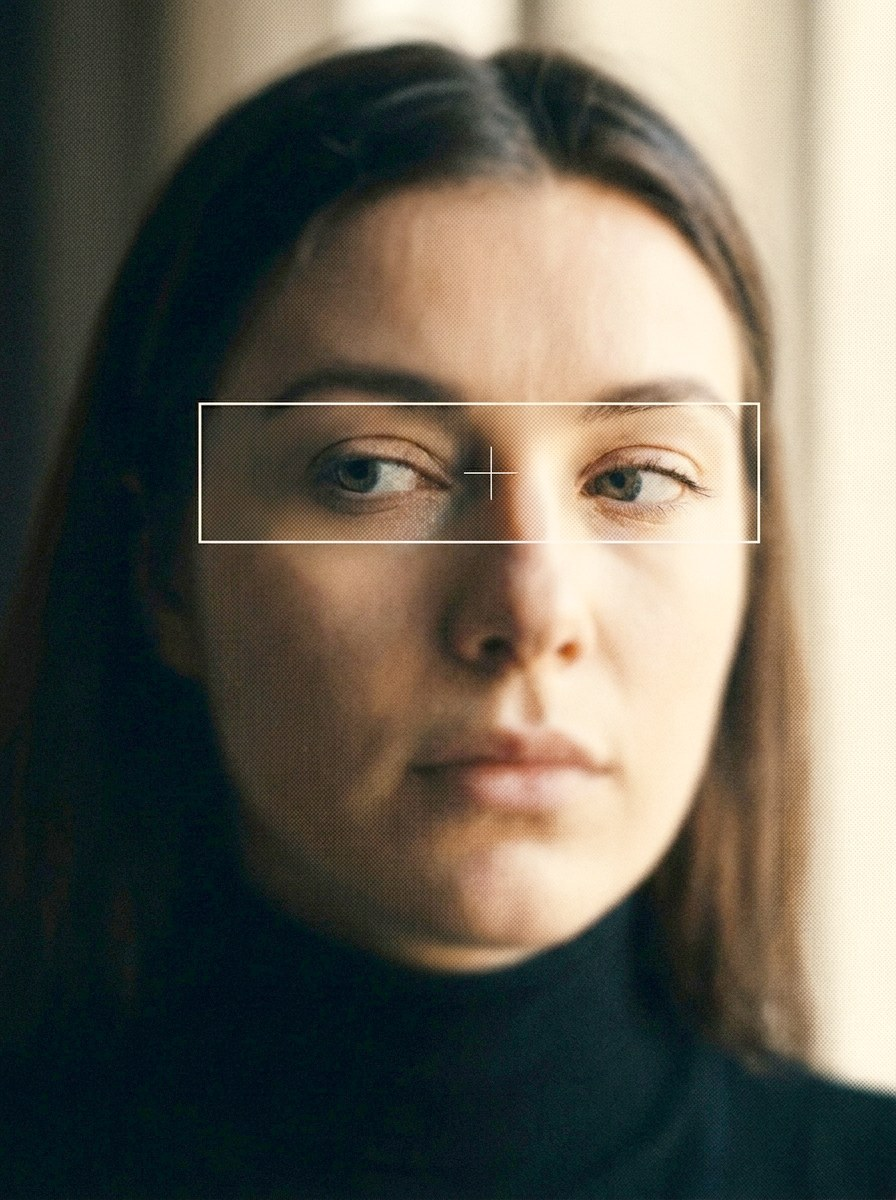
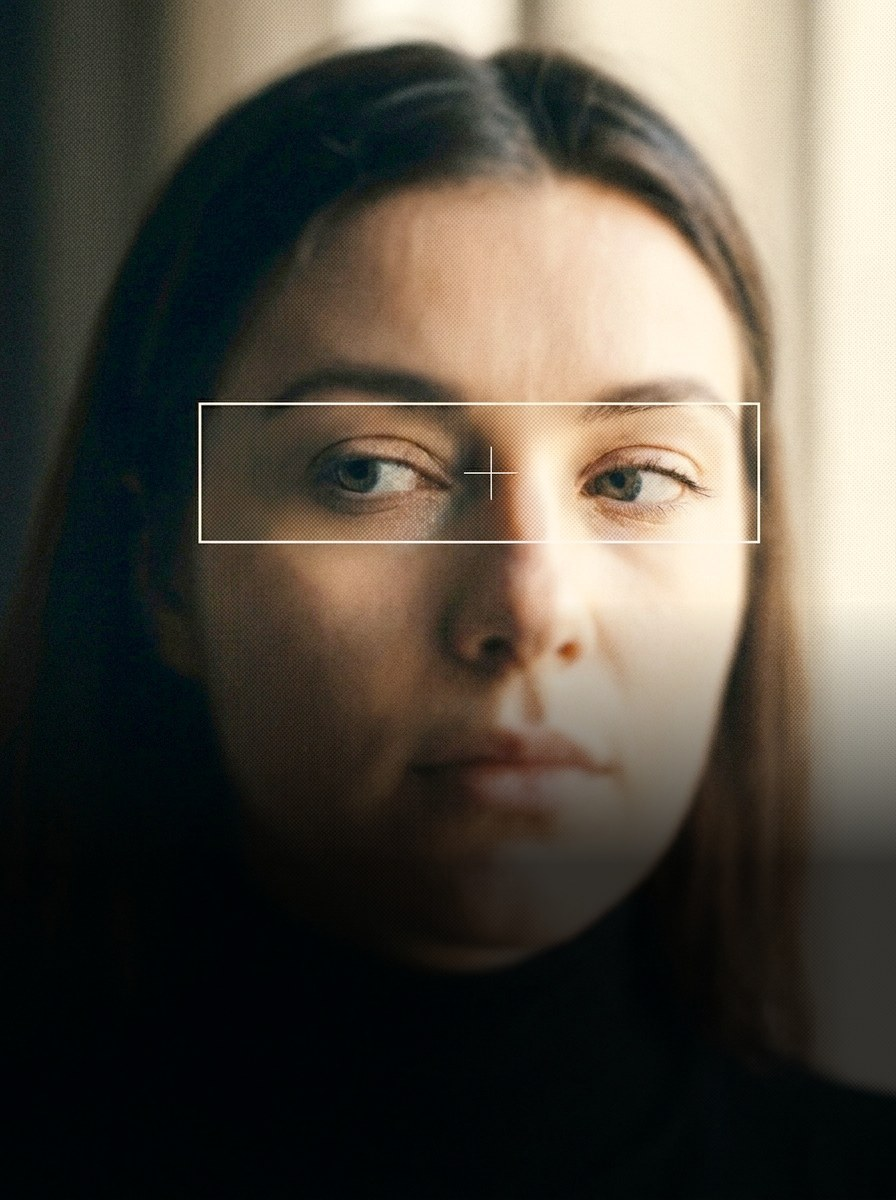
Calmer dither effect and copy matched to source text
- dither-hover.js: allow parameter overrides; page uses slower, subtler shimmer and softer cursor trail
- Copy now identical to the brief (button brackets, Trusted by line, NO-line, hero order, line breaks)
- Removed numbering and footer links not in the copy
- Darkened lower part of mobile hero for headline legibility

Changed region(s): [[0.0, 0.5242, 1.0, 1.0], [0.0, 0.7092, 0.1875, 0.8325], [0.0, 0.8633, 0.0312, 0.8942]]

diff --git a/index.html b/index.html
@@ -143,12 +143,12 @@ a { color: inherit; text-decoration: none; }
   z-index: 2;
   left: var(--g);
   right: var(--g);
-  bottom: calc(var(--t-h1) * 0.24);
+  bottom: var(--s3);
   pointer-events: none;
 }
 .hero__caption {
   max-width: 17ch;
-  margin-bottom: var(--s3);
+  margin-top: var(--s2);
   font-size: clamp(17px, 1.5vw, 26px);
   font-weight: 300;
   line-height: 1.15;
@@ -180,7 +180,6 @@ a { color: inherit; text-decoration: none; }
 .pain__list { border-top: var(--line); }
 .pain__item {
   display: grid;
-  grid-template-columns: 48px 1fr;
   gap: var(--s2);
   align-items: baseline;
   padding: var(--s2) 0;
@@ -189,7 +188,6 @@ a { color: inherit; text-decoration: none; }
   font-weight: 300;
   line-height: 1.15;
 }
-.pain__num { font-size: var(--t-label); font-weight: 500; letter-spacing: 0.06em; }
 .pain__answer {
   margin-top: var(--s4);
   max-width: 32ch;
@@ -202,11 +200,13 @@ a { color: inherit; text-decoration: none; }
 
 /* ============ Trusted by ============ */
 .trust { background: var(--blue); color: var(--cream); padding-top: var(--s3); padding-bottom: var(--s3); }
-.trust__list { display: grid; grid-template-columns: 1fr 1fr; margin-top: var(--s3); }
-.trust__list li {
-  padding: var(--s2) var(--s2) var(--s2) 0;
+.trust__line {
+  margin-top: var(--s3);
+  padding-top: var(--s2);
   border-top: var(--line-cream);
   font-size: clamp(26px, 2.6vw, 46px);
+  line-height: 1.1;
+  word-spacing: 0.15em;
 }
 
 /* ============ Services ============ */
@@ -235,9 +235,9 @@ a { color: inherit; text-decoration: none; }
 .gets__title { font-size: var(--t-h2); max-width: 8ch; }
 .gets__grid { display: grid; margin-top: var(--s4); border-top: var(--line); }
 .gets__item { padding: var(--s3) 0; border-bottom: var(--line); }
-.gets__item h3 { font-size: clamp(30px, 2.6vw, 46px); line-height: 0.95; margin: var(--s2) 0 var(--s2); }
+.gets__item h3 { font-size: clamp(30px, 2.6vw, 46px); line-height: 0.95; margin: 0 0 var(--s2); }
 .gets__item p { max-width: 38ch; }
-.gets__no { display: grid; gap: var(--s1); margin-top: var(--s4); }
+.gets__no { margin-top: var(--s4); padding-top: var(--s2); border-top: var(--line); text-align: center; }
 
 /* ============ Footer ============ */
 .footer { background: var(--blue); color: var(--cream); padding-top: var(--s5); padding-bottom: var(--s2); }
@@ -291,8 +291,6 @@ a { color: inherit; text-decoration: none; }
   .pain__body { border-left: var(--line); padding-left: var(--g); }
   .pain__cta { max-width: 75%; }
 
-  .trust__list { grid-template-columns: repeat(4, 1fr); }
-  .trust__list li + li { padding-left: var(--g); border-left: var(--line-cream); }
 
   .service { grid-template-columns: 1fr 1fr; min-height: 75vh; min-height: 75svh; }
   .service__media { margin: var(--g) var(--g) var(--g) 0; height: auto; max-height: none; min-height: 60svh; }
@@ -308,8 +306,6 @@ a { color: inherit; text-decoration: none; }
   .gets__item p { margin-top: auto; }
   .gets__item h3 { margin-bottom: var(--s3); }
   .gets__item--fill { background: var(--blue); color: var(--cream); }
-  .gets__no { grid-template-columns: repeat(4, 1fr); gap: 0; margin-top: var(--s3); }
-  .gets__no li:first-child { grid-column: 2; }
 
   .footer__grid { grid-template-columns: 1fr 1fr; align-items: center; }
   .footer__mark { justify-self: center; }
@@ -319,7 +315,8 @@ a { color: inherit; text-decoration: none; }
   .header__nav { grid-column: 2 / 4; justify-self: center; }
 }
 @media (max-width: 899px) {
-  .header .btn__long { display: none; }
+  .header .btn { padding: 0 var(--s1); }
+  .header__logo img { height: 32px; }
 }
 </style>
 </head>
@@ -336,7 +333,7 @@ a { color: inherit; text-decoration: none; }
       <li><a class="link" href="#clients">Clients</a></li>
     </ul>
   </nav>
-  <a class="btn" href="#audit"><span><span class="btn__long">Book a free </span>brand audit</span><span class="btn__arrow" aria-hidden="true">→</span></a>
+  <a class="btn" href="#audit">[ Book a free brand audit → ]</a>
 </header>
 
 <main id="top">
@@ -350,17 +347,17 @@ a { color: inherit; text-decoration: none; }
       </picture>
     </div>
     <div class="hero__text">
-      <p class="hero__caption" data-reveal data-d="2">We are here to make your brand the obvious choice on the shelf.</p>
       <h1 class="hero__title display" id="hero-title" data-reveal data-d="1">Integrated Brand<br>Growth Agency</h1>
+      <p class="hero__caption" data-reveal data-d="2">We are here to make your brand the obvious choice on the shelf.</p>
     </div>
   </section>
 
   <!-- Intro -->
   <section class="intro wrap" aria-label="About Bruit Brothers">
-    <p class="intro__lead" data-reveal>At Bruit Brothers, we help FMCG brands become impossible to ignore. Even the highly regulated ones.</p>
+    <p class="intro__lead" data-reveal>At Bruit Brothers, we help FMCG brands become impossible to ignore.<br>Even the highly regulated ones.</p>
     <div class="intro__cols">
       <div data-reveal>
-        <p class="label">Strategy, Creative, and Digital Advertising for Food &amp; Beverage, Alcohol, Tobacco, and OTC Medicines</p>
+        <p class="label">Strategy, Creative, and Digital Advertising<br>for<br>Food &amp; Beverage, Alcohol, Tobacco, and OTC Medicines</p>
       </div>
       <div data-reveal data-d="1">
         <p class="label">8 years in, we absolutely know what grows, what gets bought, what brings money, and what will never work.</p>
@@ -376,15 +373,15 @@ a { color: inherit; text-decoration: none; }
       <div class="pain__body">
         <p class="label pain__intro" data-reveal>However, you’re probably still facing common challenges:</p>
         <ul class="pain__list">
-          <li class="pain__item" data-reveal><span class="pain__num">01</span><span>Your products are great but somehow still aren’t in demand.</span></li>
-          <li class="pain__item" data-reveal><span class="pain__num">02</span><span>People keep choosing competitors that aren’t that good.</span></li>
-          <li class="pain__item" data-reveal><span class="pain__num">03</span><span>The moment you stop advertising, interest in your brand disappears.</span></li>
-          <li class="pain__item" data-reveal><span class="pain__num">04</span><span>Every new media campaign feels like another blind guess.</span></li>
+          <li class="pain__item" data-reveal><span>Your products are great but somehow still aren’t in demand.</span></li>
+          <li class="pain__item" data-reveal><span>People keep choosing competitors that aren’t that good.</span></li>
+          <li class="pain__item" data-reveal><span>The moment you stop advertising, interest in your brand disappears.</span></li>
+          <li class="pain__item" data-reveal><span>Every new media campaign feels like another blind guess.</span></li>
         </ul>
         <p class="pain__answer" data-reveal>We’re ready to identify what's holding your brand back and deliver what's missing to make it people's first choice.</p>
         <div class="pain__cta" data-reveal>
           <p class="label">Get a 20-min expert audit to reveal what's wrong and what to do next.</p>
-          <a class="btn btn--block" href="#audit">Book a free brand audit <span class="btn__arrow" aria-hidden="true">→</span></a>
+          <a class="btn btn--block" href="#audit">[ Book a free brand audit → ]</a>
         </div>
       </div>
     </div>
@@ -393,12 +390,7 @@ a { color: inherit; text-decoration: none; }
   <!-- Trusted by -->
   <section class="trust wrap" id="clients" aria-labelledby="trust-title">
     <h2 class="label" id="trust-title">Trusted by</h2>
-    <ul class="trust__list">
-      <li class="display" data-reveal>Swedish Smokeless</li>
-      <li class="display" data-reveal data-d="1">Swedish Smokeless</li>
-      <li class="display" data-reveal data-d="2">Swedish Smokeless</li>
-      <li class="display" data-reveal data-d="3">Swedish Smokeless</li>
-    </ul>
+    <p class="trust__line display" data-reveal>Swedish Smokeless / Swedish Smokeless / Swedish Smokeless / Swedish Smokeless</p>
   </section>
 
   <!-- Services -->
@@ -411,7 +403,7 @@ a { color: inherit; text-decoration: none; }
       </figure>
       <div class="service__body">
         <div>
-          <p class="label">01 / 05</p>
+          <p class="label">01</p>
           <h3 class="service__title display" id="s1" data-reveal>Brand Strategy</h3>
         </div>
         <div class="service__cols">
@@ -443,7 +435,7 @@ a { color: inherit; text-decoration: none; }
       </figure>
       <div class="service__body">
         <div>
-          <p class="label">02 / 05</p>
+          <p class="label">02</p>
           <h3 class="service__title display" id="s2" data-reveal>Campaign Development</h3>
         </div>
         <div class="service__cols">
@@ -471,7 +463,7 @@ a { color: inherit; text-decoration: none; }
       </figure>
       <div class="service__body">
         <div>
-          <p class="label">03 / 05</p>
+          <p class="label">03</p>
           <h3 class="service__title display" id="s3" data-reveal>Media Activation</h3>
         </div>
         <div class="service__cols">
@@ -501,7 +493,7 @@ a { color: inherit; text-decoration: none; }
       </figure>
       <div class="service__body">
         <div>
-          <p class="label">04 / 05</p>
+          <p class="label">04</p>
           <h3 class="service__title display" id="s4" data-reveal>Brand Measurement</h3>
         </div>
         <div class="service__cols">
@@ -530,7 +522,7 @@ a { color: inherit; text-decoration: none; }
       </figure>
       <div class="service__body">
         <div>
-          <p class="label">05 / 05</p>
+          <p class="label">05</p>
           <h3 class="service__title display" id="s5" data-reveal>Visual Identity</h3>
         </div>
         <div class="service__cols">
@@ -563,32 +555,24 @@ a { color: inherit; text-decoration: none; }
       <h2 class="gets__title display" id="gets-title" data-reveal>What you always get</h2>
       <div class="gets__grid">
         <article class="gets__item gets__item--fill" data-reveal>
-          <span class="label">01</span>
           <h3 class="display">High-value channels only.</h3>
           <p>Valuable attention starts beyond the obvious placements, so we’ll never put you on oversaturated Meta Ads or other default options.</p>
         </article>
         <article class="gets__item" data-reveal data-d="1">
-          <span class="label">02</span>
           <h3 class="display">Regulated industries expertise.</h3>
           <p>We get your campaign live without the usual drama, covering category restrictions, age assurance, platform policies, and creative compliance.</p>
         </article>
         <article class="gets__item" data-reveal>
-          <span class="label">03</span>
           <h3 class="display">Total clarity.</h3>
           <p>You always know what's going on, what comes next, and why it matters, so nothing ever feels like a black box.</p>
         </article>
         <article class="gets__item" data-reveal data-d="1">
-          <span class="label">04</span>
           <h3 class="display">Zero guesswork.</h3>
           <p>Every decision is grounded in proven consumer psychology, behavioral patterns, and purchase motivations.</p>
         </article>
       </div>
     </div>
-    <ul class="gets__no label" data-reveal>
-      <li>No endless briefings</li>
-      <li>No useless documents</li>
-      <li>No unexpected delays</li>
-    </ul>
+    <p class="gets__no label" data-reveal>NO ENDLESS BRIEFINGS&emsp;&emsp;NO USELESS DOCUMENTS&emsp;&emsp;NO UNEXPECTED DELAYS</p>
   </section>
 </main>
 
@@ -597,18 +581,12 @@ a { color: inherit; text-decoration: none; }
     <div class="footer__cta">
       <h2 class="footer__title display" data-reveal>They are ready to listen. Let’s give them something worth hearing.</h2>
       <!-- TODO: replace with the real booking link (Calendly, form, etc.) -->
-      <a class="btn btn--cream btn--block" href="mailto:hello@bruitbrothers.com?subject=Free%20brand%20audit" data-reveal data-d="1">Book a free brand audit <span class="btn__arrow" aria-hidden="true">→</span></a>
+      <a class="btn btn--cream btn--block" href="mailto:hello@bruitbrothers.com?subject=Free%20brand%20audit" data-reveal data-d="1">[ Book a free brand audit → ]</a>
     </div>
     <div class="footer__mark" role="img" aria-label="The two Bruit Brothers"></div>
   </div>
   <div class="footer__bottom label">
     <span>© 2026 Bruit Brothers</span>
-    <ul>
-      <li><a class="link" href="#solutions">Solutions</a></li>
-      <li><a class="link" href="#always">What you get</a></li>
-      <li><a class="link" href="#clients">Clients</a></li>
-      <li><a class="link" href="#top">Back to top ↑</a></li>
-    </ul>
   </div>
 </footer>
 
@@ -624,7 +602,21 @@ a { color: inherit; text-decoration: none; }
 </script>
 <script type="module">
   import { initDitherHover } from './dither-hover.js';
-  initDitherHover({ colorDark: '#15209f', colorLight: '#f0ede5', zIndex: 1 });
+  initDitherHover({
+    colorDark: '#15209f',
+    colorLight: '#f0ede5',
+    zIndex: 1,
+    // Calmer than the defaults: slow, subtle shimmer and a softer cursor trail
+    params: {
+      biasNoiseSpeed: 0.25,        // default 94 (main source of flicker)
+      biasPulseSpeed: 0.5,         // default 3.1
+      biasAnimationStrength: 0.06, // default 0.29
+      pixelSizeMultiplier: 3,      // default 7.7 (dot size under the cursor)
+      trailIntensityMultiplier: 0.7,
+      enterDuration: 1.4,
+      trail: { decayRate: 0.08 },
+    },
+  });
 </script>
 </body>
 </html>

diff --git a/dither-hover.js b/dither-hover.js
@@ -344,6 +344,12 @@ function supportsWebGL2() {
    ===================================================================== */
 export function initDitherHover(options = {}) {
   const opts = { ...DEFAULTS, ...options };
+  // Optional overrides of the effect parameters: initDitherHover({ params: { biasNoiseSpeed: 0.3, trail: { decayRate: 0.08 } } })
+  if (options.params) {
+    const { trail, ...rest } = options.params;
+    Object.assign(PARAMS, rest);
+    if (trail) Object.assign(PARAMS.trail, trail);
+  }
   if (!supportsWebGL2()) return null; // фолбек: звичайні картинки
 
   // Стилі: ховаємо <img> тільки коли WebGL реально працює
